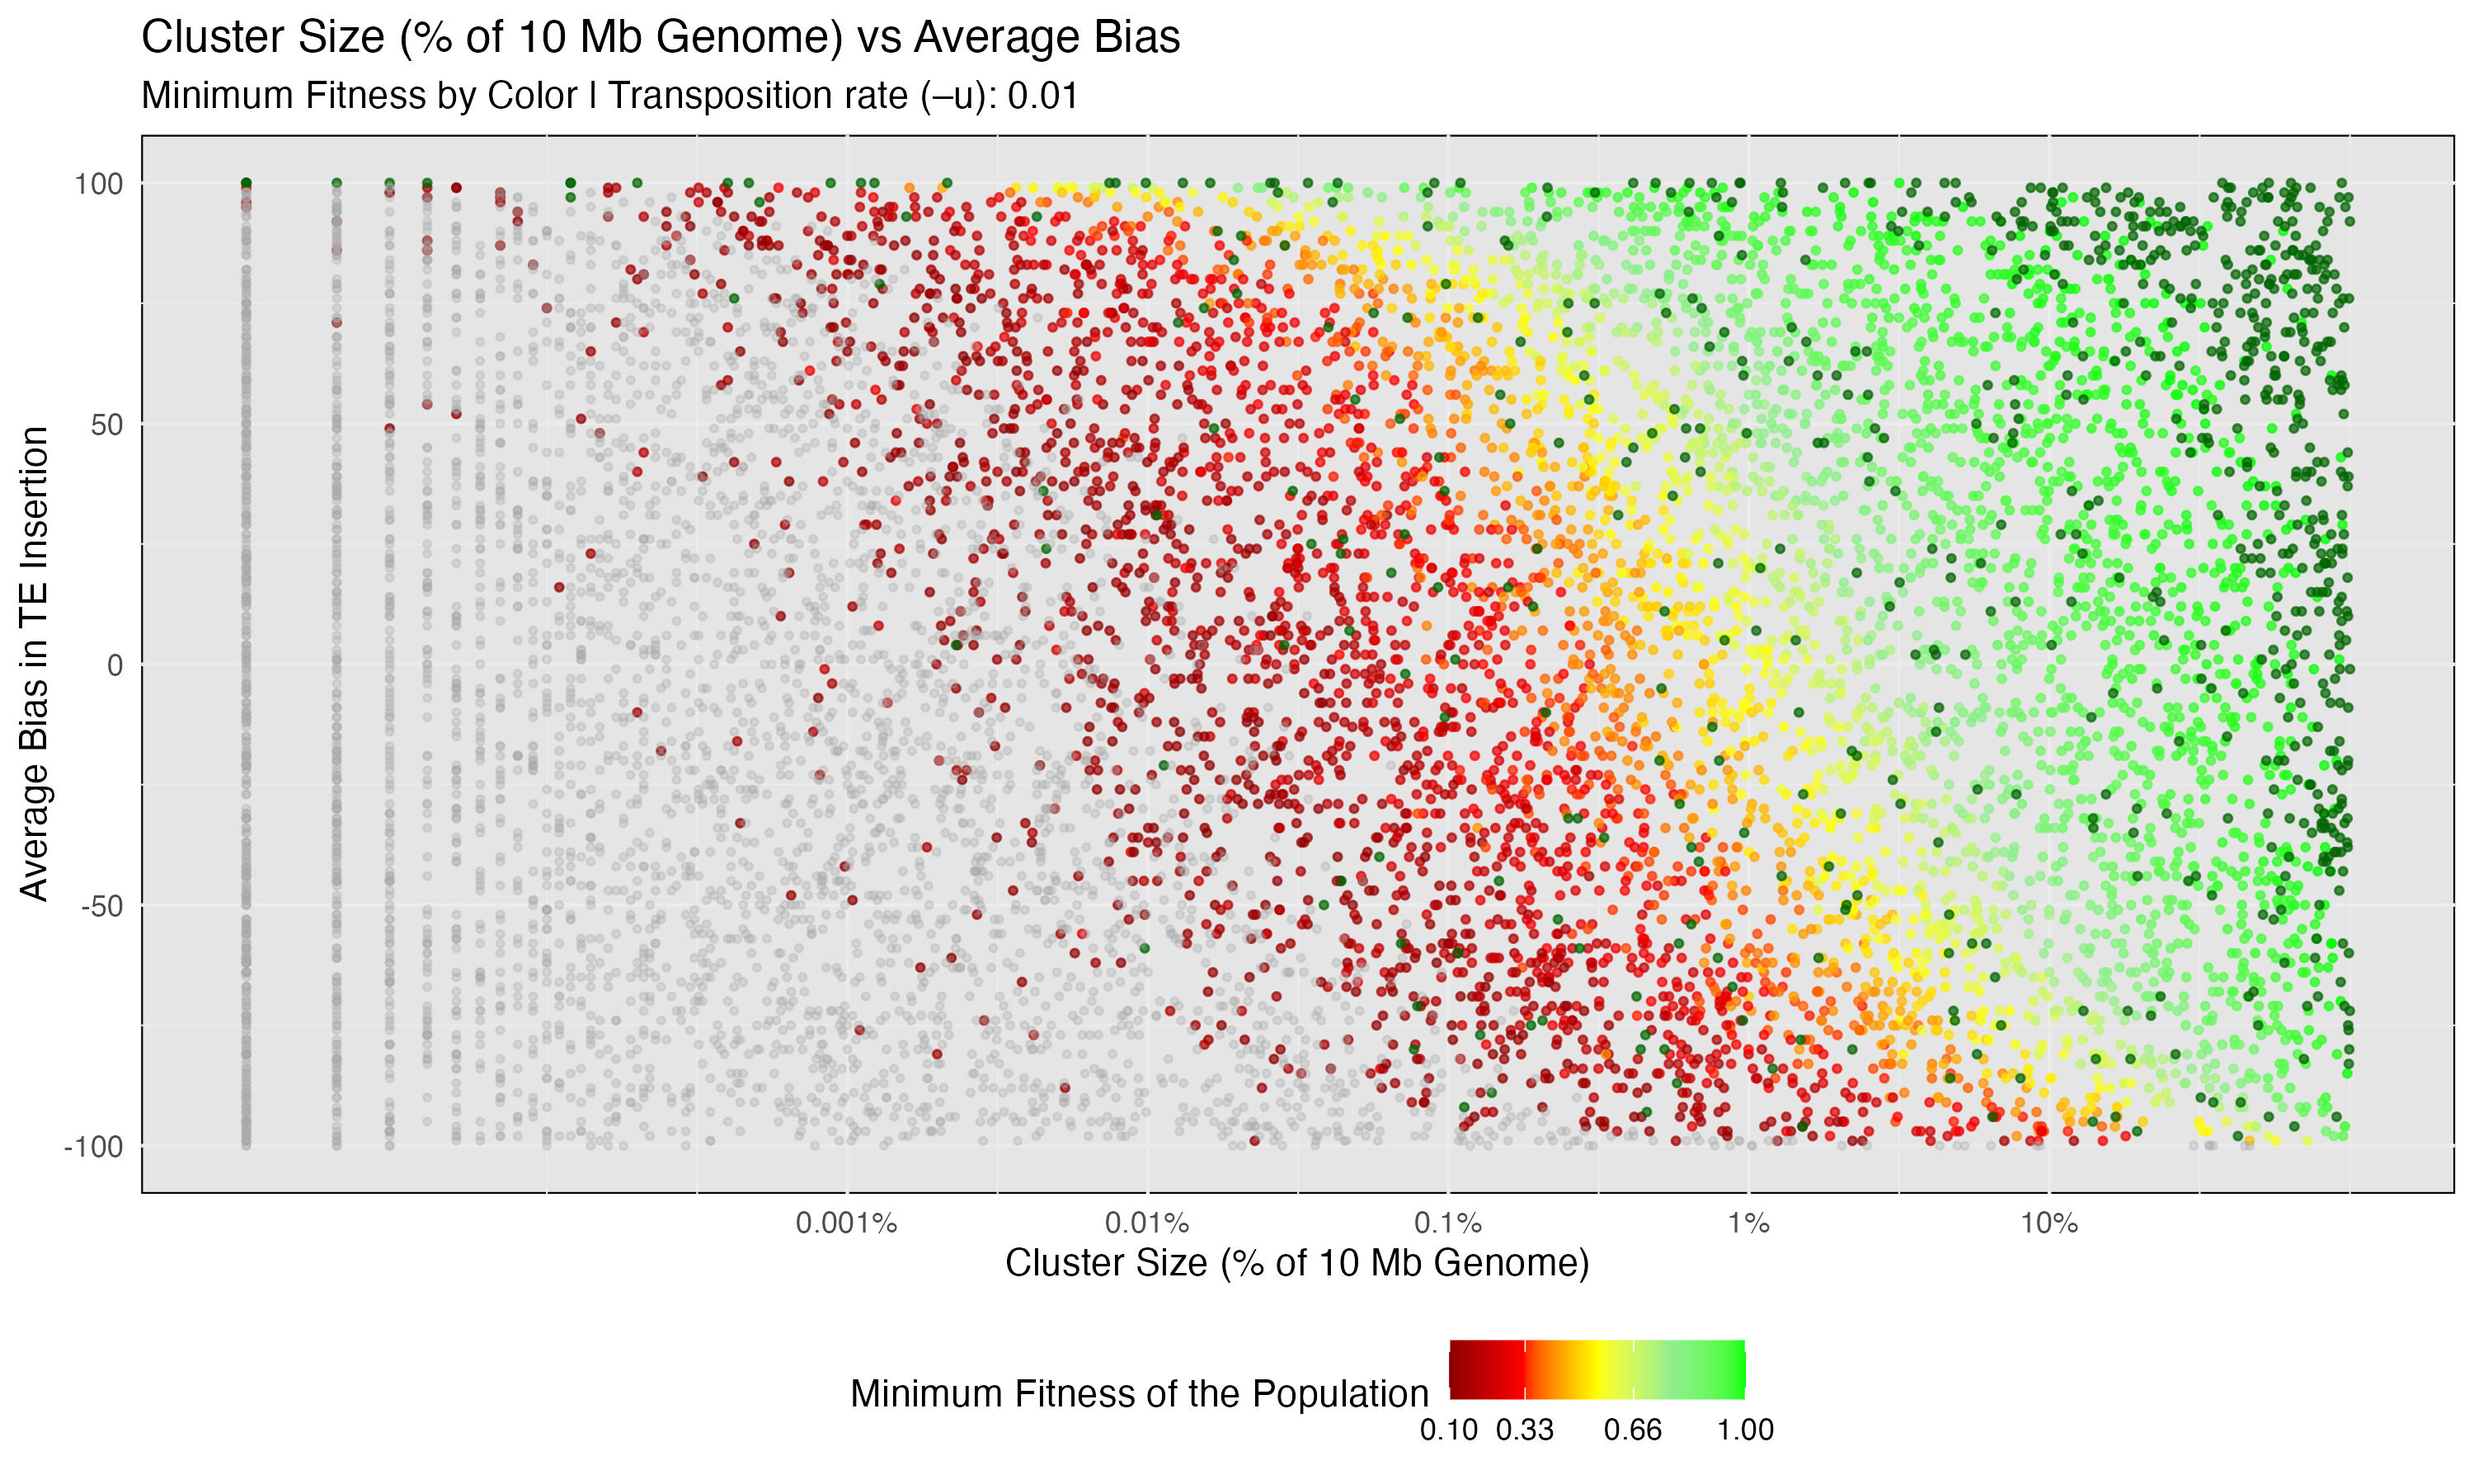
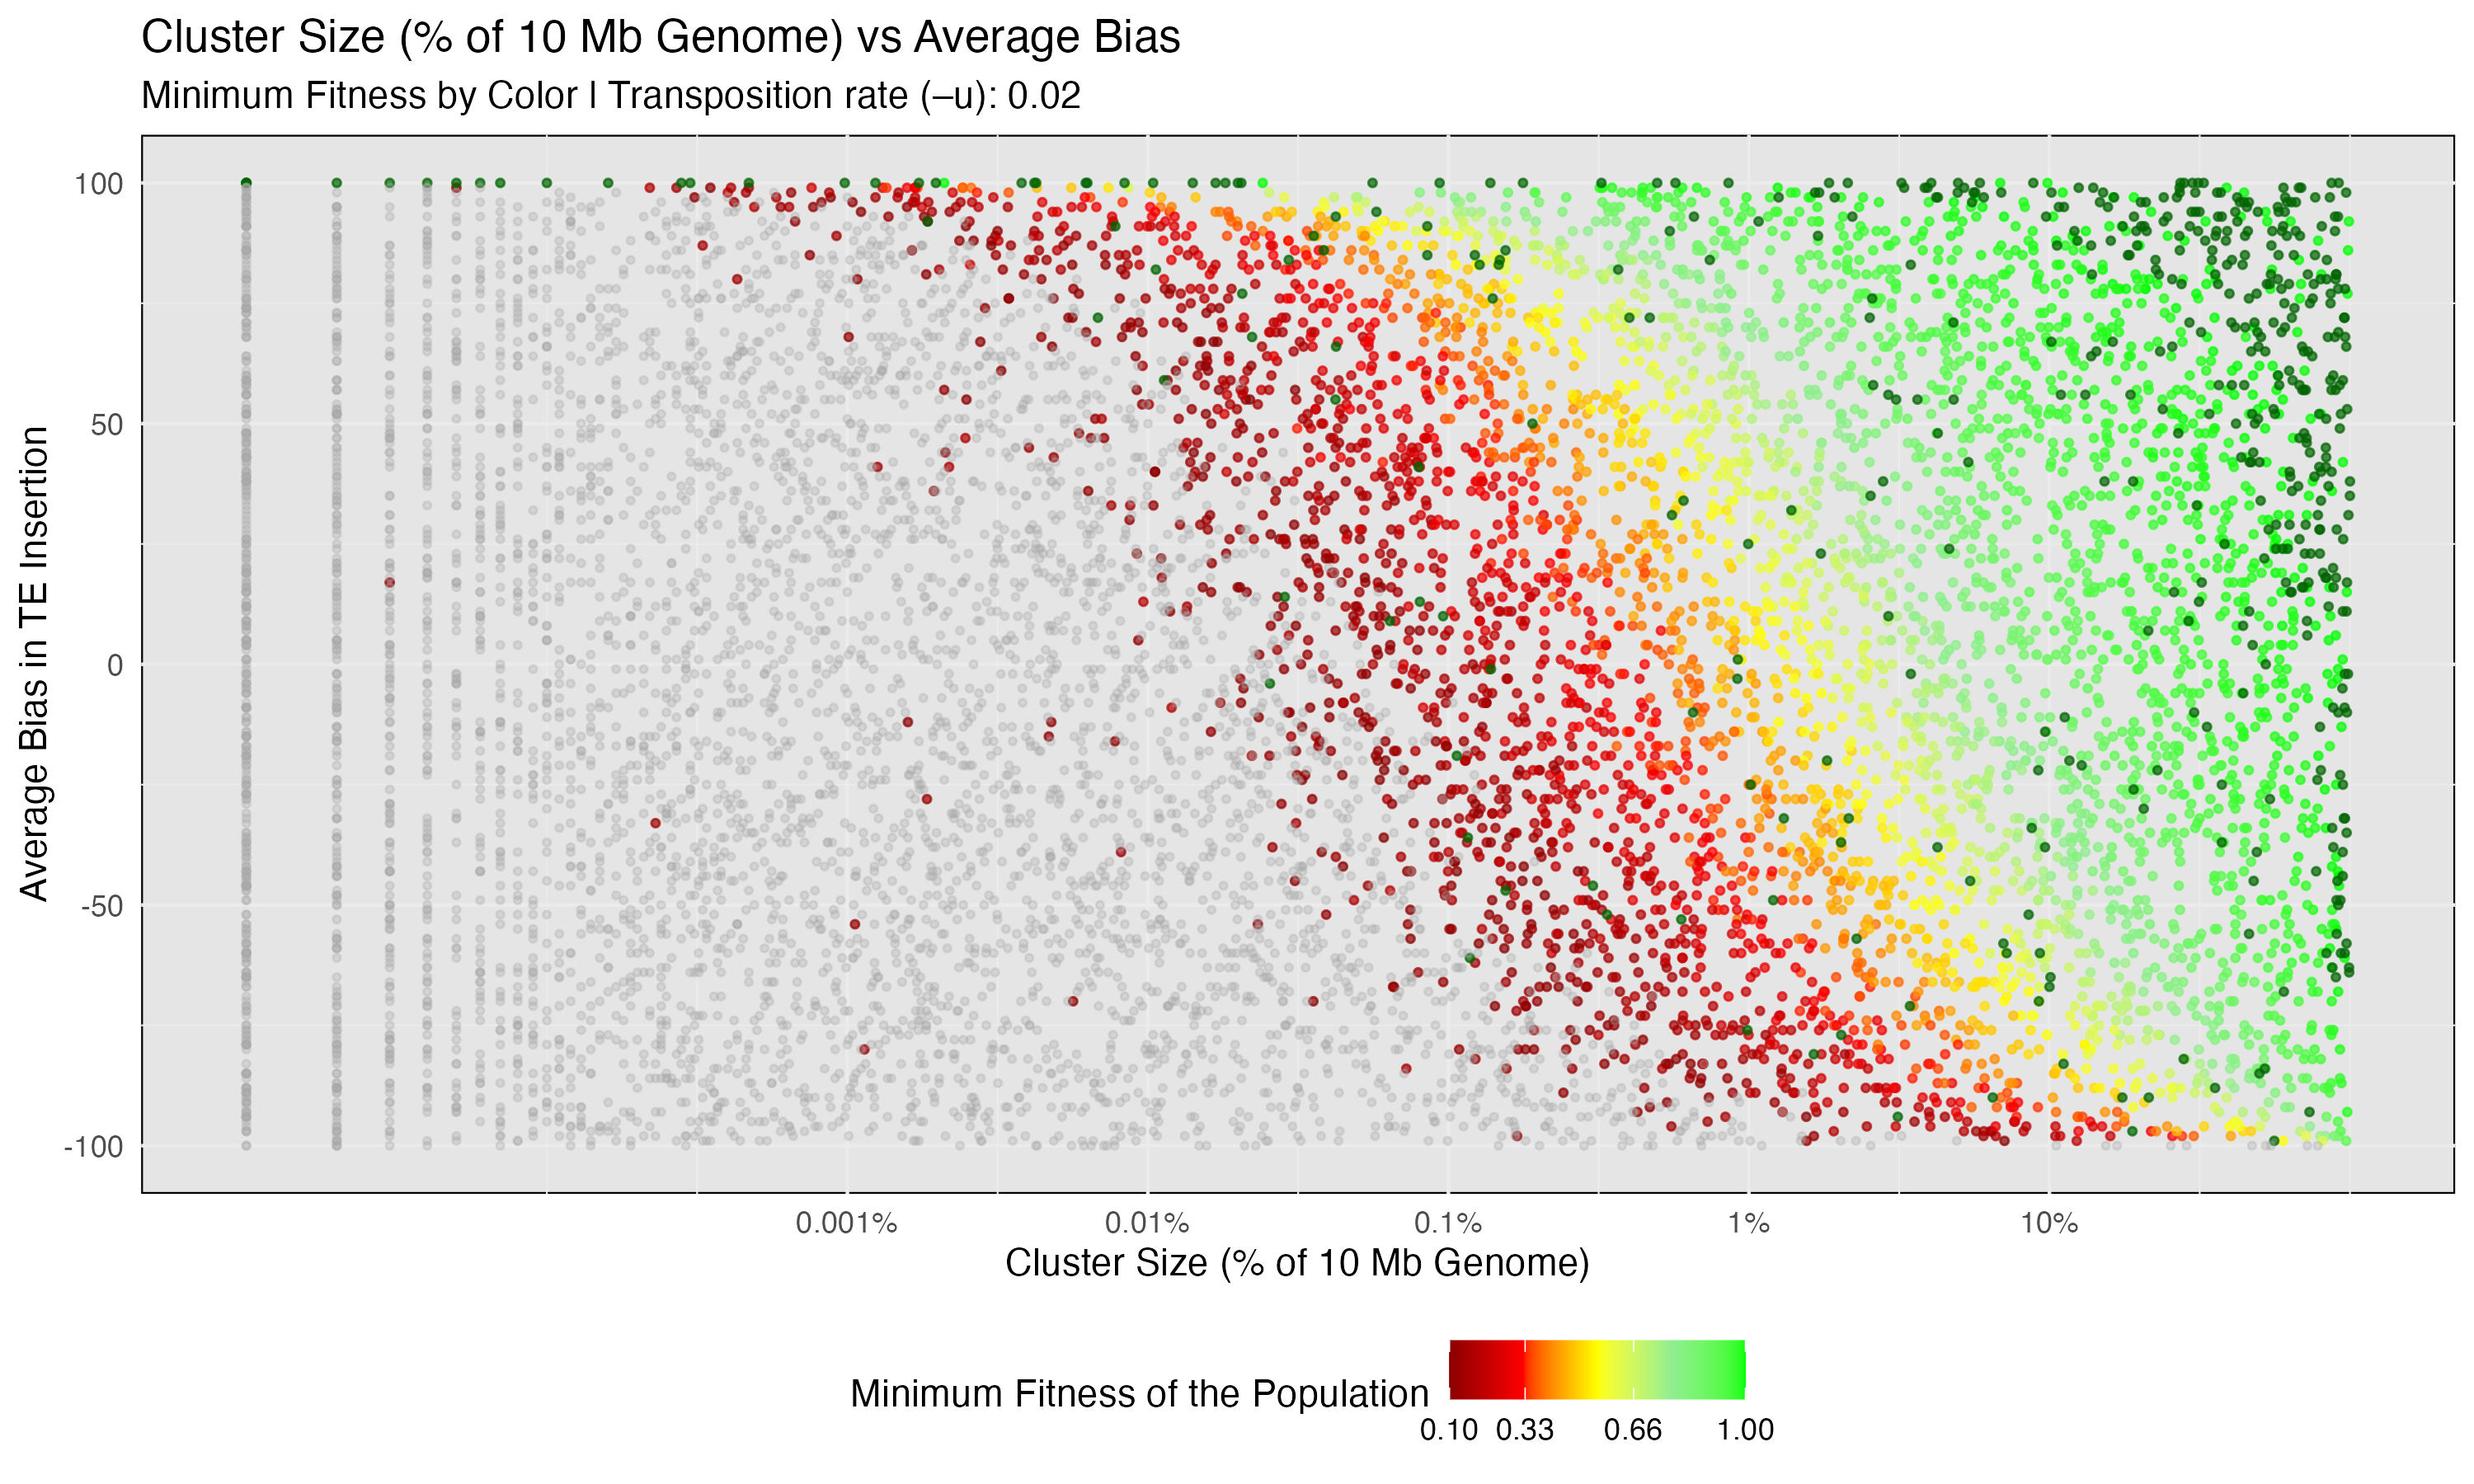
u

Changed region(s): [[0.155, 0.0933, 0.961, 0.7778]]

diff --git a/Minimum_Fitness.md b/Minimum_Fitness.md
@@ -187,10 +187,10 @@ plot_data <- function(df_list) {
 ``` r
 # Save the final plot
 plot1 <- plot_data(df1)
-ggsave(filename = "images/minimum_fitness_u01.jpg", plot = plot1, width = 10, height = 6)
+ggsave(filename = "images/minimum_fitness_u02.jpg", plot = plot1, width = 10, height = 6)
 
 plot2 <- plot_data(df2)
-ggsave(filename = "images/minimum_fitness_u02.jpg", plot = plot2, width = 10, height = 6)
+ggsave(filename = "images/minimum_fitness_u01.jpg", plot = plot2, width = 10, height = 6)
 ```
 
 </details>
